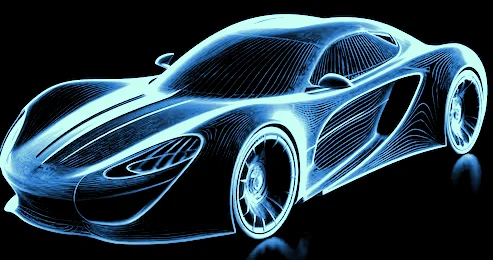
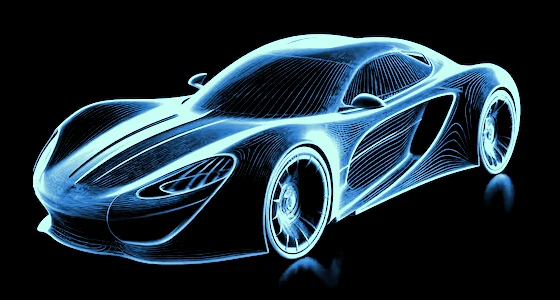
Carro completo sin recortes, más pequeño
Claude-Session: https://claude.ai/code/session_01CeQCDkRL7kbcmGw9mussWy

diff --git a/index.html b/index.html
@@ -146,7 +146,7 @@ tr.tap{cursor:pointer} tr.tap:active td{background:var(--panel-2)}
   background:radial-gradient(80% 70% at 50% 62%,rgba(79,168,255,.22),transparent 70%),linear-gradient(160deg,#1A2130,#090C12);border:1px solid rgba(255,255,255,.12);box-shadow:0 22px 40px -24px #000,0 1px 0 rgba(255,255,255,.14) inset}
 .carc::before{content:"";position:absolute;inset:auto 0 0 0;height:40%;background:repeating-linear-gradient(90deg,rgba(255,255,255,.025) 0 1px,transparent 1px 18px);pointer-events:none}
 .carc-top{display:flex;justify-content:space-between;align-items:baseline;font:700 15px var(--display)}.carc-d{font:600 10px var(--body);letter-spacing:.14em;text-transform:uppercase;opacity:.6}
-.car-def{mix-blend-mode:screen;filter:drop-shadow(0 0 10px rgba(70,227,198,.25))!important;height:auto!important;aspect-ratio:493/260;object-fit:contain!important;width:78%!important;margin:2px auto 0!important;max-width:none;-webkit-mask-image:radial-gradient(closest-side,#000 75%,transparent 100%);mask-image:radial-gradient(closest-side,#000 75%,transparent 100%)}
+.car-def{mix-blend-mode:screen;filter:drop-shadow(0 0 10px rgba(70,227,198,.25))!important;height:auto!important;aspect-ratio:560/300;object-fit:contain!important;width:72%!important;margin:2px auto 0!important;max-width:none}
 .car-img{width:100%;height:150px;object-fit:contain;display:block;margin:6px 0 2px;filter:drop-shadow(0 10px 14px rgba(0,0,0,.6))}
 .car-svg{width:100%;height:auto;display:block;margin:8px 0 4px;filter:drop-shadow(0 6px 10px rgba(0,0,0,.6))}
 .carc-bot{display:grid;grid-template-columns:repeat(3,1fr);gap:8px}.carc-bot small{display:block;font:600 8.5px/1 var(--body);letter-spacing:.16em;opacity:.6;margin-bottom:5px}.carc-bot b{font:700 14px var(--display)}
@@ -154,7 +154,7 @@ tr.tap{cursor:pointer} tr.tap:active td{background:var(--panel-2)}
 .wc-k401{background:linear-gradient(135deg,#2E2A1C,#141209);color:#F5EED9}.wc-k401 .wc-a{color:#E9C46A}
 .k401c{background:radial-gradient(80% 70% at 50% 45%,rgba(70,180,255,.14),transparent 70%),linear-gradient(160deg,#1A2130,#090C12)}
 .kret{text-align:center;font:600 10px/1 var(--body);letter-spacing:.14em;text-transform:uppercase;opacity:.6;margin:2px 0 10px}
-.catimg{aspect-ratio:1!important;width:150px!important;height:150px!important;margin:0 auto!important;max-width:150px;-webkit-mask-image:radial-gradient(closest-side,#000 70%,transparent 100%);mask-image:radial-gradient(closest-side,#000 70%,transparent 100%);filter:drop-shadow(0 0 12px rgba(70,227,198,.35))!important}
+.catimg{aspect-ratio:1!important;width:150px!important;mask-size:auto;height:150px!important;margin:0 auto!important;max-width:150px;-webkit-mask-image:radial-gradient(closest-side,#000 70%,transparent 100%);mask-image:radial-gradient(closest-side,#000 70%,transparent 100%);filter:drop-shadow(0 0 12px rgba(70,227,198,.35))!important}
 .k67{height:150px;display:flex;flex-direction:column;align-items:center;justify-content:center}
 .k67 span{font:800 104px/1 var(--display);letter-spacing:-.06em;background:linear-gradient(180deg,#FFF6DA,#E9C46A 55%,#8C6A2F);-webkit-background-clip:text;background-clip:text;color:transparent;filter:drop-shadow(0 0 18px rgba(233,196,106,.35))}
 .k67 small{font:700 9.5px/1 var(--body);letter-spacing:.24em;opacity:.6;margin-top:4px}

diff --git a/sw.js b/sw.js
@@ -1,5 +1,5 @@
 // Orbit: guarda la app en el iPhone para usarla sin internet.
-const V='orbit-v35';
+const V='orbit-v36';
 const CORE=['./','./index.html','./manifest.webmanifest','./jspdf.umd.min.js','./xlsx.full.min.js','./car.webp','./house.webp','./cat.webp','./icon-192.png','./icon-512.png','./apple-touch-icon.png'];
 self.addEventListener('install',e=>{e.waitUntil(caches.open(V).then(c=>c.addAll(CORE)).then(()=>self.skipWaiting()))});
 self.addEventListener('activate',e=>{e.waitUntil(caches.keys().then(ks=>Promise.all(ks.filter(k=>k!==V).map(k=>caches.delete(k)))).then(()=>self.clients.claim()))});
